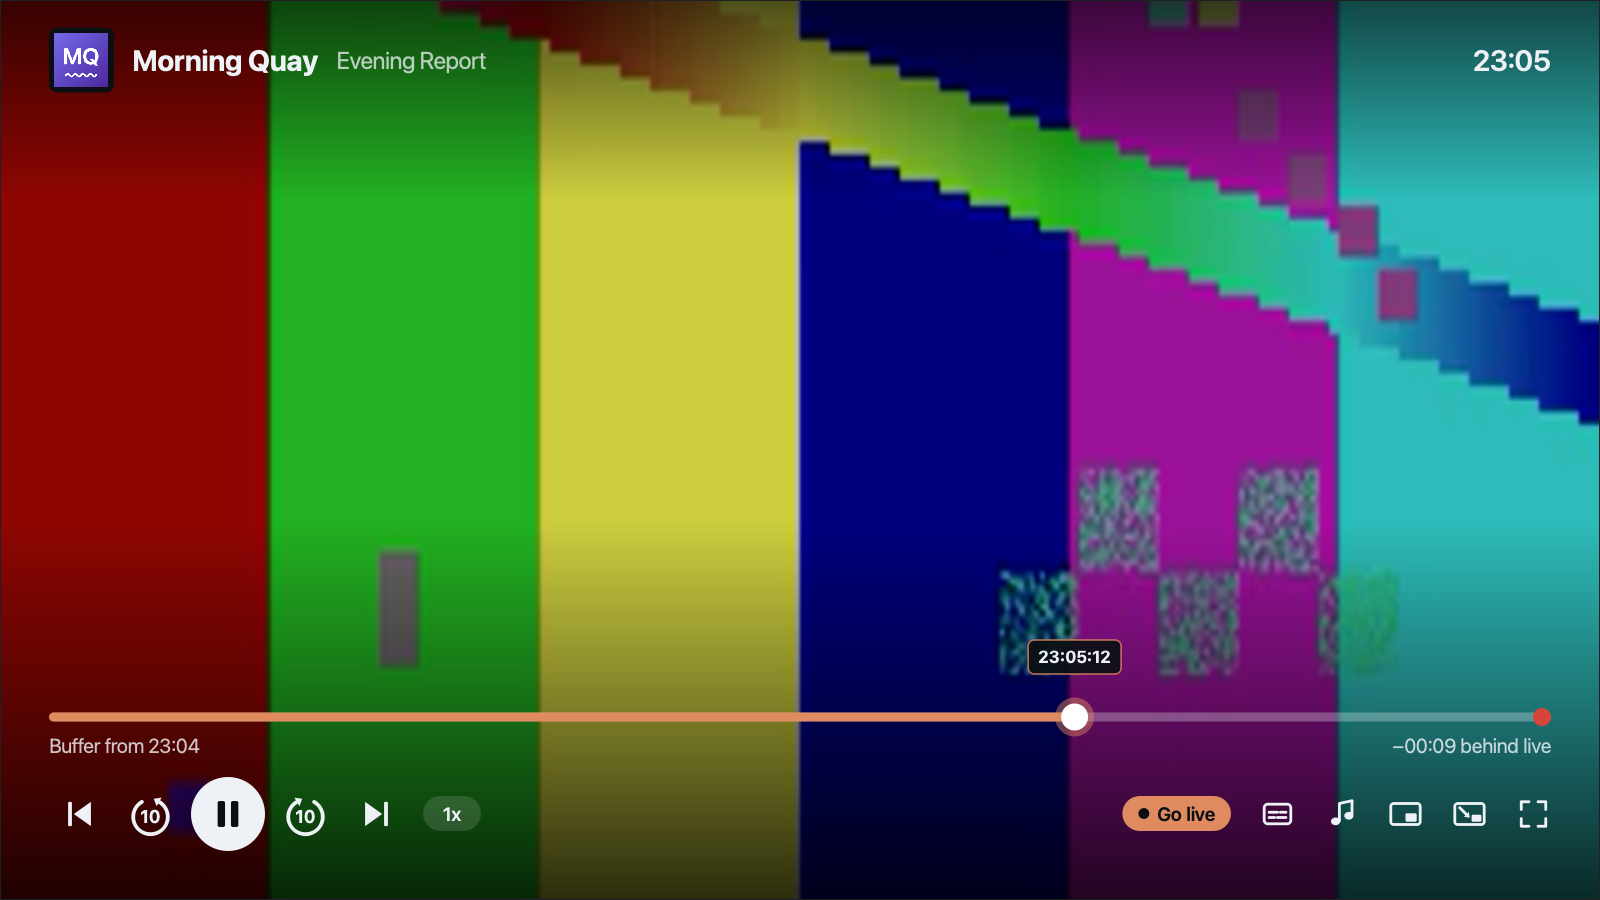
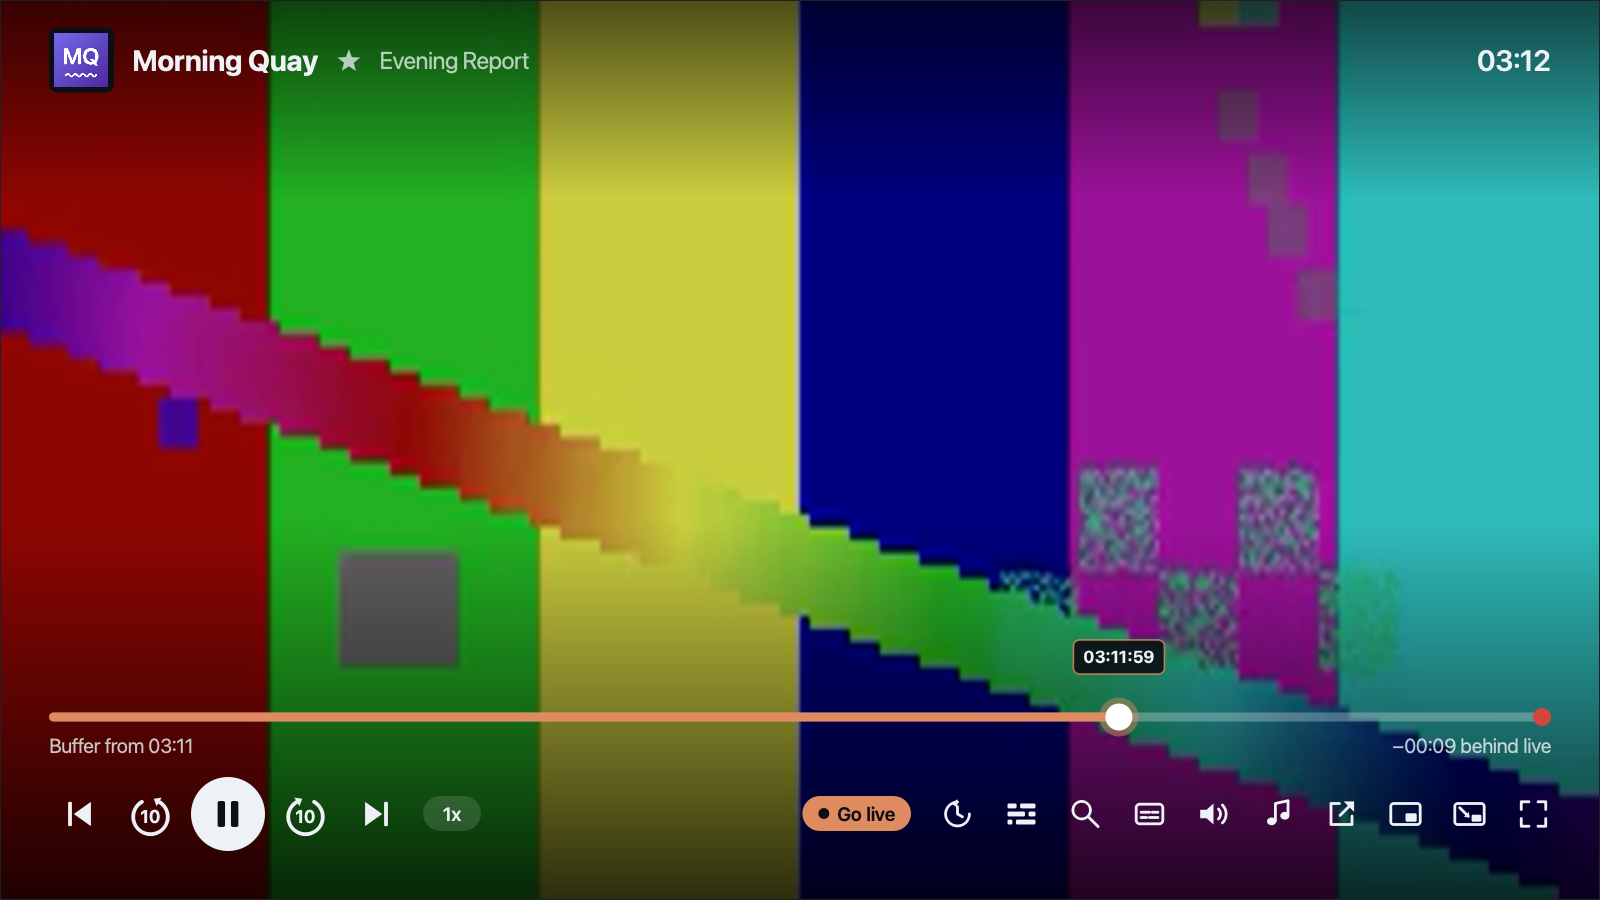
docs: prepare QiTV 2.0.1 (version, release notes, AGENTS.md, screenshots)
Claude-Session: https://claude.ai/code/session_011UFrnH8jUNCzkFNLKJaoRD

diff --git a/AGENTS.md b/AGENTS.md
@@ -89,6 +89,8 @@ Next Steps (Paused)
 - Add unit tests for `services/m3u.py` and `services/export.py`
 
 Recent Changes (for context)
+- 2.0.1 (`tv/vlc`, from the owner's first days with 2.0): raw TS that a provider sends in bursts (~10 s every ~10 s) is measured in the helper (`burst_s` from the first clear burst, confirmed or dropped by the next; an unconfirmed one lasts at most one estimate) so stay-live, the stall check ("Reconnecting…") and Go live treat it like HLS, and stay-live slows to 0.95× until a bursty source has half a burst of room; a channel that sends bytes but isn't playable yet gets up to 15 s before the direct fallback, and a live direct stream that ends is reopened twice. On macOS a click on the video no longer leaves libVLC's view as the first responder (arrow keys beeped). Everything in `SHORTCUTS` has an on-screen control (an audit test walks the table): player controls for volume/mixer, guide, search, previous channel, ★ favorite, the channel's info, "‹ Library" after a movie; the PiP label's speaker mutes it and ⇄ swaps (≥28 px targets); the channel list's top row has ‹ back, ⌕ search and clickable names (the provider's name opens the sources to switch), plus an Open file row; the guide's header has ‹ › ⌕ ⛶ ×; the Library has ⛶. Double-clicks act once on toggles.
+- Verification for 2.0.1: the controller measured "TR: 24 TV" (bursty raw TS) on the owner's provider before and after: before, 1.1× catch-ups and "Reconnecting…" every 10 s forever; after, "Reconnecting…" only in the first ~14 s, never at the edge after 40 s, 0.95× until ~15 s of room, then 1.0×. The macOS first-responder fix was confirmed on a real muted window (NSEvent click on the video).
 - 2.0.0 release pass (`tv/vlc`): a performance and leak pass (first frame 1.80 → 1.45 s and RSS 312 → 202 MiB at start on a 2,500-channel/20,000-film synthetic catalog; drawer open 118 → 53 ms; guide after a provider switch 439 → 16 ms; the saved guide is a packed `<key>.guide`, old `.pkl` files still read; network libraries load after the first frame; no growing leaks over 600 zaps and 60 PiP cycles). Hardening fixed a locked config.json stalling zaps or Save, old catalog jobs beyond the two-job cap, unmasked `QITV_DEBUG_CURL` cookies, remaining URL logs, slow quit with running catalog jobs, STB links re-made once on a failed play, banner times in the guide's zone, the fast-zap column over the banner, and macOS's stale VLC plugin cache (regenerated after signing in CI; a check fails the job if it is stale). The final review's fixes: the main player's own volume (`--no-volume-save`; libVLC shared the last level between players), a small 1.14 window reused as the TV window, a movie waiting for a closing PiP's stream, PiP refused while an external player holds the stream, external players started without the bundle's VLC environment, EPG Weeks/Months, the update flow with a locked config, the Python runtime in the notices, the PiP lifted above the zap banner, and the Linux/Windows packaged smokes run with the system VLC hidden.
 - After the owner tried 2.0: the channel list's top row ends with ↻ (the provider's channels and guide again, also Ctrl/⌘+R) and ⚙ (Settings); an old "always play in VLC/MPV" is switched off once on the first 2.0 start, Settings offers "Always play in VLC/MPV", the player controls have an "Open in external player" button and the Library's right-click has Play in VLC/MPV and Copy stream link (an opened file sent out leaves no history); M3U group titles with ";" (iptv-org) put a channel in each of those groups, also in playlists cached before the split, with one channel still one channel in All, Favorites, search and the guide.
 - Verification for the release pass: the full suite at d27a3e9 ran 1975 tests OK (3 skipped); manual checks against the public iptv-org list and a real Xtream account (play, zaps, PiP open/swap/close, time-shift 13 s behind live, never more than 2 streams, nothing left after quit).

diff --git a/docs/release-notes-2.0.1.md b/docs/release-notes-2.0.1.md
@@ -1,0 +1,49 @@
+# QiTV 2.0.1
+
+The first update to 2.0. It fixes how some live channels play, and puts a button on screen for
+everything you could only do with a key, so QiTV works fully with a mouse or trackpad.
+
+**Please always download QiTV from [Releases](https://github.com/ozankaraali/QiTV/releases)
+instead of using others' distributions, which may have malware.**
+
+## Live TV plays smoother
+
+- **Channels that arrive in bursts no longer stutter or say "Reconnecting…".** Some providers
+  send a channel as about 10 seconds of video every 10 seconds, instead of a steady stream. QiTV
+  now notices this within about one burst (10–15 seconds) and plays such a channel about one
+  burst behind, without speeding up and running dry, and without false "Reconnecting…" messages.
+  To build that room it may play 5% slower for a minute or two (the sound keeps its pitch).
+- **Slow-starting channels get more time.** A channel whose provider starts it on demand now has
+  up to 15 seconds to begin, as long as it is sending something, before QiTV falls back to playing
+  it without time-shift.
+- **A live channel that stops is reconnected.** If a live stream ends unexpectedly, QiTV tries it
+  again twice before saying "The stream ended".
+
+## Everything is on screen
+
+- **Player controls:** new buttons for volume (opens the mixer), the guide, search, the previous
+  channel, and a ★ to add or remove the channel from Favorites. Click the channel's name for its
+  info. Point at a button to see its key.
+- **Picture-in-picture:** the small picture's speaker now mutes and unmutes it, a new ⇄ button
+  swaps the two pictures, and the buttons are bigger and easier to hit.
+- **Channel list:** next to ↻ and ⚙, the top row now has ‹ to go back a level, ⌕ search, and
+  clickable names: click your provider's name to see your providers and switch to another. The
+  list of sources also has an **Open file** row.
+- **Guide:** buttons for earlier and later, search, fullscreen and closing the guide.
+- **Library:** a fullscreen button, and a **‹ Library** button on the player controls takes you
+  back after a movie or an episode.
+
+## Fixes
+
+- **macOS:** after a click on the picture, the arrow keys no longer make the "can't do that"
+  sound.
+- **Library:** hovering its top bar no longer fails to show the tooltips.
+
+## Good to know
+
+- A channel that arrives in bursts plays about one burst (often ~10 s) behind the provider. That
+  is the nearest it can play without running out between bursts.
+- On Windows, the independent PiP and main volumes are checked in code but not yet by ear on a
+  real Windows machine.
+- See the [2.0.0 notes](https://github.com/ozankaraali/QiTV/blob/main/docs/release-notes-2.0.0.md)
+  for everything new in 2.0.
